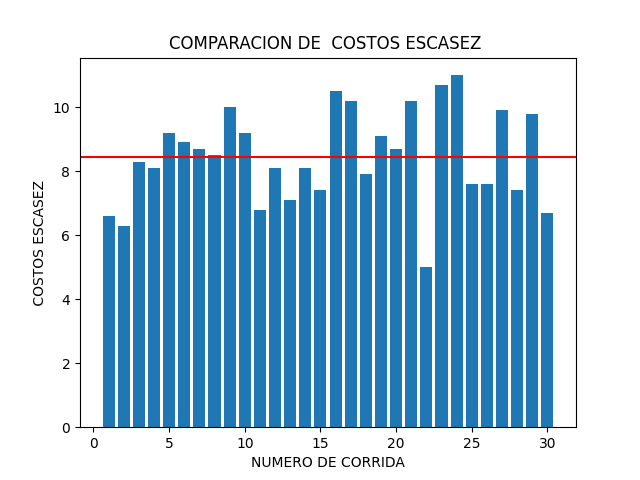
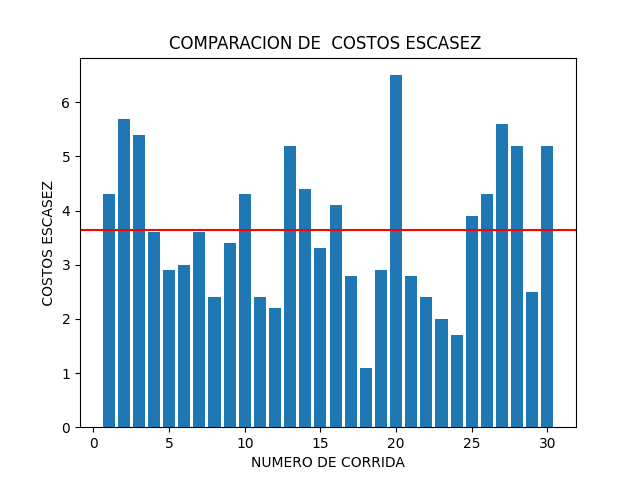
Inventario correcciones

diff --git a/TP3/ModeloInventario/ModeloInventario.py b/TP3/ModeloInventario/ModeloInventario.py
@@ -13,7 +13,7 @@ costoBacklogItemSetup = 5
 costoReservaItemSetup = 1
 
 class Inventario:
-    
+
     def __init__(self, env, puntoDePedido, tamanioDePedido):
         self.puntoDePedido = puntoDePedido
         self.tamanioDePedido = tamanioDePedido
@@ -21,6 +21,9 @@ class Inventario:
         self.ultimoCambio = 0
         self.costoDeOrden = 0
         self.costoDeEscasez = 0
+        self.deudas = 0
+        self.mant = 0
+        self.pasadas=0
         self.costoDeReserva = 0
         
         #! Iniciar los procesos
@@ -36,16 +39,19 @@ class Inventario:
         yield env.timeout(tiempoLider)
         
         #Actualiza el inventario y los costos 
-        self.ActualizarCosto(env)
+        #self.ActualizarCosto(env)
         self.inventario += unidades
         self.ultimoCambio = env.now
         
     def RevisionInventario(self, env):
         while True:
+            self.pasadas+=1
+            self.ActualizarCosto(env)
             #Crea orden si lo requiere
             if self.inventario <= self.puntoDePedido:
-                unidades = (self.tamanioDePedido + self.puntoDePedido - self.inventario)
+                unidades = (self.tamanioDePedido - self.inventario)
                 env.process(self.CrearOrden(env, unidades))
+
             #Espera al siguiente chequeo
             yield env.timeout(1.0)
             
@@ -53,24 +59,23 @@ class Inventario:
         
         #Actualizar costo por escasez
         if self.inventario <= 0:
-            costoEscazo = (abs(self.inventario) * costoBacklogItemSetup * (env.now - self.ultimoCambio))
+            costoEscazo = (abs(self.inventario) * costoBacklogItemSetup )
             self.costoDeEscasez += costoEscazo
+            self.deudas+=1
         else :
             #Actualizar costo de reserva
-            costoReserva = (self.inventario * costoReservaItemSetup * (env.now - self.ultimoCambio))
+            costoReserva = (self.inventario * costoReservaItemSetup )
+            self.mant+=1
             self.costoDeReserva += costoReserva
             
     def Demandas(self, env):
-        x =0;
         while True:
             #Genera el tamaño y tiempo de la siguiente demanda 
             tiempo = np.random.exponential(indiceDemanda)
             tamanio = np.random.choice(tamanioDemanda, 1, p=probabilidadDemanda)
             yield env.timeout(tiempo)
-            x=x+1
-            print(x)
             #Actualiza el nivel de inventario y costos en funcion de la demanda recibida
-            self.ActualizarCosto(env)
+            #self.ActualizarCosto(env)
             self.inventario -= tamanio[0]
             self.ultimoCambio = env.now
             
@@ -88,7 +93,8 @@ def Ejecutar(largo, puntoDePedido, tamanioDePedido):
     env = simpy.Environment()
     inv = Inventario(env, puntoDePedido, tamanioDePedido)
     env.run(largo)
-    
+    print(inv.deudas)
+    print(inv.mant)
     #Computa y retorna los resultados
     promedioCostosTotales = (inv.costoDeOrden + inv.costoDeReserva + inv.costoDeEscasez) / largo
     promedioCostosOrden = inv.costoDeOrden / largo
@@ -126,6 +132,7 @@ def EjecutarVarios(largo, puntosDePedido, tamaniosDePedido, repeticiones):
             
             #Guarda los resultados
             resultados.append(Ejecutar(largo, i, j))
+            print(resultados)
     return resultados
 
 

diff --git a/TP3/ModeloInventario/EjecucionDos.py b/TP3/ModeloInventario/EjecucionDos.py
@@ -19,7 +19,7 @@ promedioCfg2= np.mean(configuracion2['CostosTotales'])
 print('Promedio de costo mensual para (20, 60): ', round(promedioCfg1, 2))
 print('Promedio de costo mensual para (60, 80): ', round(promedioCfg2, 2))
 
-grafico.GraficarCajas([configuracion2['CostosTotales']])
+grafico.GraficarCajas(configuracion1['CostosTotales'])
 
 #Extraigo los datos para calcular
 data = [m - n for m,n in zip(configuracion1['CostosTotales'], configuracion2['CostosTotales'])]

diff --git a/TP3/ModeloInventario/Ejecucion.py b/TP3/ModeloInventario/Ejecucion.py
@@ -5,7 +5,7 @@ import pandas as pd
 import numpy as np
 
 
-resultados = modelo.EjecutarVarios(120, [20], [20], 30)
+resultados = modelo.EjecutarVarios(120, [60], [100], 1)
 limiteInferior, limiteSuperior = Tabla.GenerarIntervaloDeConfianza(resultados)
 print("Intervalo mensual de confianza de un 90% para los costos mensuales del inventario: "f"{limiteInferior:.1f}" + " " + f"{limiteSuperior:.1f}")
 Tabla.GuardarTabla(resultados)

diff --git a/TP3/ModeloInventario/Graficar.py b/TP3/ModeloInventario/Graficar.py
@@ -62,7 +62,7 @@ def GraficarCajas(datos):
         
     #Crear area
     fig, ax = plt.subplots(dpi = 100)
-    ax.set_xticklabels([ '(60, 80)'])
+    ax.set_xticklabels([ '(20, 60)'])
     ax.set_title('Costos promedio de inventario por configuracion')
     ax.set_xlabel('Configuracion (reposicion, tamaño)')
     ax.set_ylabel('Costo promedio mensual')
